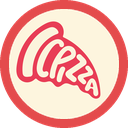
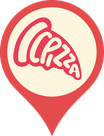
fix(branch-map): a pin whose tip is the branch, not a badge centred on it
The 52px round badge was anchored at its centre with the name 37px under
the point, so the branch looked lower than it is. The icon is now the
classic map-pin silhouette (52x68, shared artwork with mobile) anchored at
its tip — the branch coordinate at every zoom — with the name centred 11px
under the tip. A test reads the PNG's size so the anchor cannot drift from
the asset.

diff --git a/src/domains/branch/components/BranchMapView.test.tsx b/src/domains/branch/components/BranchMapView.test.tsx
@@ -1,6 +1,8 @@
 import { jest, describe, it, expect, beforeAll, beforeEach } from "@jest/globals";
 import React from "react";
 import { render, screen, act } from "@testing-library/react";
+import { readFileSync } from "fs";
+import { join } from "path";
 import type { IBranch } from "../../management/inventory/types";
 
 import { BranchMapView } from "./BranchMapView";
@@ -45,7 +47,12 @@ jest.mock("@react-google-maps/api", () => {
     };
 });
 
-type FakeMarkerOptions = { title?: string; map?: unknown };
+type FakePoint = { x: number; y: number };
+type FakeMarkerOptions = {
+    title?: string;
+    map?: unknown;
+    icon?: { url: string; scaledSize: { width: number; height: number }; anchor: FakePoint; labelOrigin: FakePoint };
+};
 
 /** Every marker the component builds during a test, in creation order. */
 const mockCreatedMarkers: FakeMarker[] = [];
@@ -119,6 +126,13 @@ function installGoogleStub(): void {
 }
 
 beforeAll(installGoogleStub);
+
+/** A PNG's pixel size, read from its IHDR chunk (big-endian width and height at bytes 16 and 20). */
+function pngSize(path: string): { width: number; height: number } {
+    const bytes = readFileSync(path);
+    expect(bytes.subarray(12, 16).toString("ascii")).toBe("IHDR");
+    return { width: bytes.readUInt32BE(16), height: bytes.readUInt32BE(20) };
+}
 
 function branch(overrides: Partial<IBranch> = {}): IBranch {
     return {
@@ -214,6 +228,36 @@ describe("BranchMapView", () => {
 
         expect(first.map).toBeNull();
         expect(mockCreatedMarkers[mockCreatedMarkers.length - 1].options.title).toBe("Karlin");
+    });
+
+    /**
+     * The owner's report: a badge anchored at its centre "gives slightly false information, as if
+     * the point is lower". The pin is now a head with a pointed tip, and the tip — the bottom
+     * centre of the icon — is what sits on the branch, at every zoom. The name hangs 11px under it.
+     */
+    it("puts the pin's tip on the branch and the name's centre 11px under the tip", () => {
+        render(<BranchMapView branches={[branch()]} onSelectBranch={jest.fn<void, [IBranch]>()} />);
+
+        const icon = mockCreatedMarkers[0].options.icon;
+        if (icon === undefined) throw new Error("the branch marker has no custom icon");
+        // 52x68 is half the asset's 104x136: the head keeps the old badge's 52px.
+        expect(icon.scaledSize).toEqual({ width: 52, height: 68 });
+        // Both points are measured from the icon's top-left.
+        expect(icon.anchor).toEqual({ x: icon.scaledSize.width / 2, y: icon.scaledSize.height });
+        expect(icon.labelOrigin).toEqual({ x: icon.anchor.x, y: icon.anchor.y + 11 });
+    });
+
+    // The anchor is in CSS px of the scaledSize box, so it is only the tip if the shipped image has
+    // that box's aspect: Google stretches the PNG to fit, and a regenerated asset of another aspect
+    // would move the apex off the anchor with every option above still passing.
+    it("ships the pin asset at 2x the icon's box, so the anchor stays on the tip", () => {
+        render(<BranchMapView branches={[branch()]} onSelectBranch={jest.fn<void, [IBranch]>()} />);
+
+        const icon = mockCreatedMarkers[0].options.icon;
+        if (icon === undefined) throw new Error("the branch marker has no custom icon");
+        expect(icon.url).toMatch(/\/branch-pin\.png$/);
+        const asset = pngSize(join(__dirname, "..", "..", "..", "..", "public", "branch-pin.png"));
+        expect(asset).toEqual({ width: icon.scaledSize.width * 2, height: icon.scaledSize.height * 2 });
     });
 
     // Tapping a pin now opens a details sheet; the bounce is what ties that sheet back to the pin

diff --git a/src/domains/branch/components/BranchMapView.tsx b/src/domains/branch/components/BranchMapView.tsx
@@ -20,11 +20,16 @@ const BOUNDS_PADDING = { top: 96, right: 48, bottom: 160, left: 48 };
 /** Above this the view is a single branch zoomed to street level, which reads as an error. */
 const MAX_SINGLE_BRANCH_ZOOM = 15;
 
-/** Rendered size of the branch pin, in CSS pixels. The asset itself is 128px for retina. */
-const PIN_SIZE = 52;
-/** Baseline of the branch name. Measured from the icon's TOP-LEFT, which is where Google anchors
- * labelOrigin — measuring from the centre puts the text inside the circle. */
-const LABEL_OFFSET = PIN_SIZE + 11;
+/**
+ * Rendered size of the branch pin, in CSS pixels: the old 52px badge as a round head, with a
+ * pointed tip under it. The asset is 2x this (104x136) for retina, and its tip's apex is the
+ * image's bottom-centre pixel row.
+ */
+const PIN_WIDTH = 52;
+const PIN_HEIGHT = 68;
+/** Centre of the branch name, 11px below the tip. Measured from the icon's TOP-LEFT, which is
+ * where Google anchors labelOrigin — measuring from the anchor puts the text inside the pin. */
+const LABEL_OFFSET = PIN_HEIGHT + 11;
 
 export interface BranchMapViewProps {
     branches: IBranch[]; // markers rendered only for entries with non-null lat/lng
@@ -152,11 +157,13 @@ export function BranchMapView({
                 },
                 icon: {
                     url: BRANCH_PIN_URL,
-                    scaledSize: new google.maps.Size(PIN_SIZE, PIN_SIZE),
-                    // Both default to the image's bottom centre, which would hang the badge above
-                    // its branch and print the name across it.
-                    anchor: new google.maps.Point(PIN_SIZE / 2, PIN_SIZE / 2),
-                    labelOrigin: new google.maps.Point(PIN_SIZE / 2, LABEL_OFFSET),
+                    scaledSize: new google.maps.Size(PIN_WIDTH, PIN_HEIGHT),
+                    // The tip, so the pin points at its branch at every zoom. A badge anchored at
+                    // its centre read as sitting lower than the branch. Google's default anchor is
+                    // the same point; it is spelled out because it is the whole job of this art.
+                    anchor: new google.maps.Point(PIN_WIDTH / 2, PIN_HEIGHT),
+                    // Defaults to the image's centre, which would print the name across the head.
+                    labelOrigin: new google.maps.Point(PIN_WIDTH / 2, LABEL_OFFSET),
                 },
             });
             marker.addListener("click", () => selectBranchRef.current(branch));

diff --git a/src/domains/branch/utils/mapsConfig.ts b/src/domains/branch/utils/mapsConfig.ts
@@ -44,9 +44,11 @@ export const LIGHT_MAP_STYLES: google.maps.MapTypeStyle[] = [
 ];
 
 /**
- * The branch pin: the IC Pizza badge inside a brand-red ring, served from `public/`.
+ * The branch pin, served from `public/`: a classic map pin whose round head is the IC Pizza badge
+ * inside a brand-red ring, with a pointed tip whose apex is the image's bottom-centre — the point
+ * BranchMapView anchors on the branch's coordinate.
  *
- * A generated 128px asset rather than the 4500x4501 source logo — at marker size the original
- * would still decode to a ~80MB bitmap for a 40px circle.
+ * A generated 104x136 asset (2x its 52x68 CSS size) rather than the 4500x4501 source logo — at
+ * marker size the original would still decode to a ~80MB bitmap for a 52px head.
  */
 export const BRANCH_PIN_URL: string = `${process.env.PUBLIC_URL}/branch-pin.png`;
